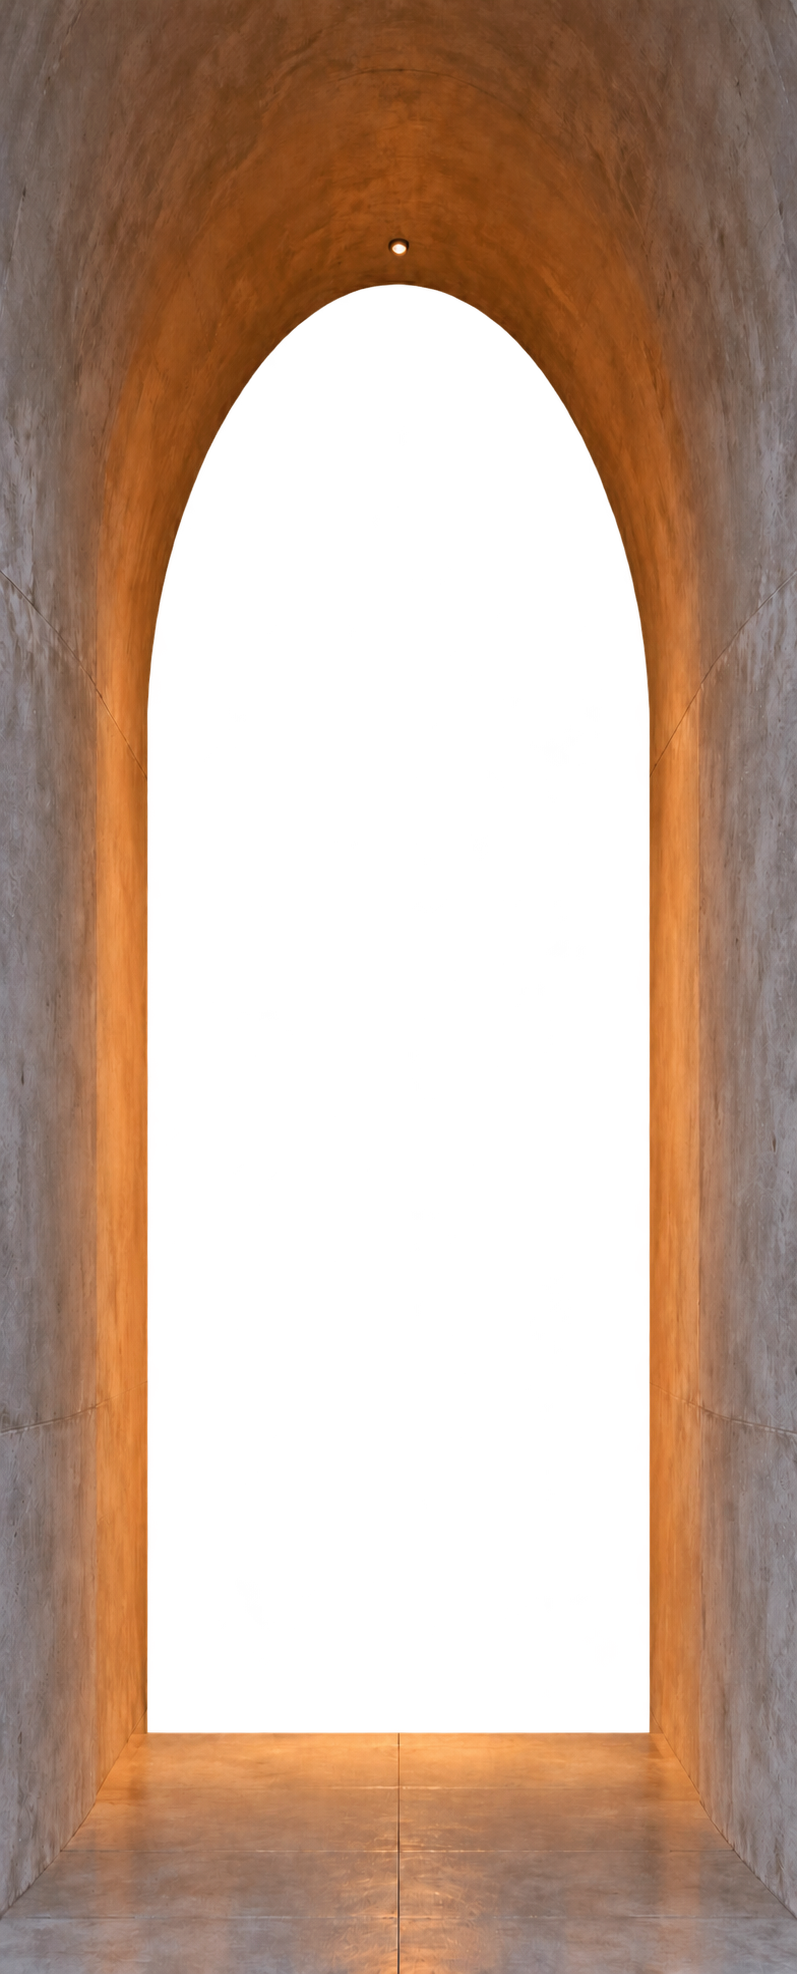
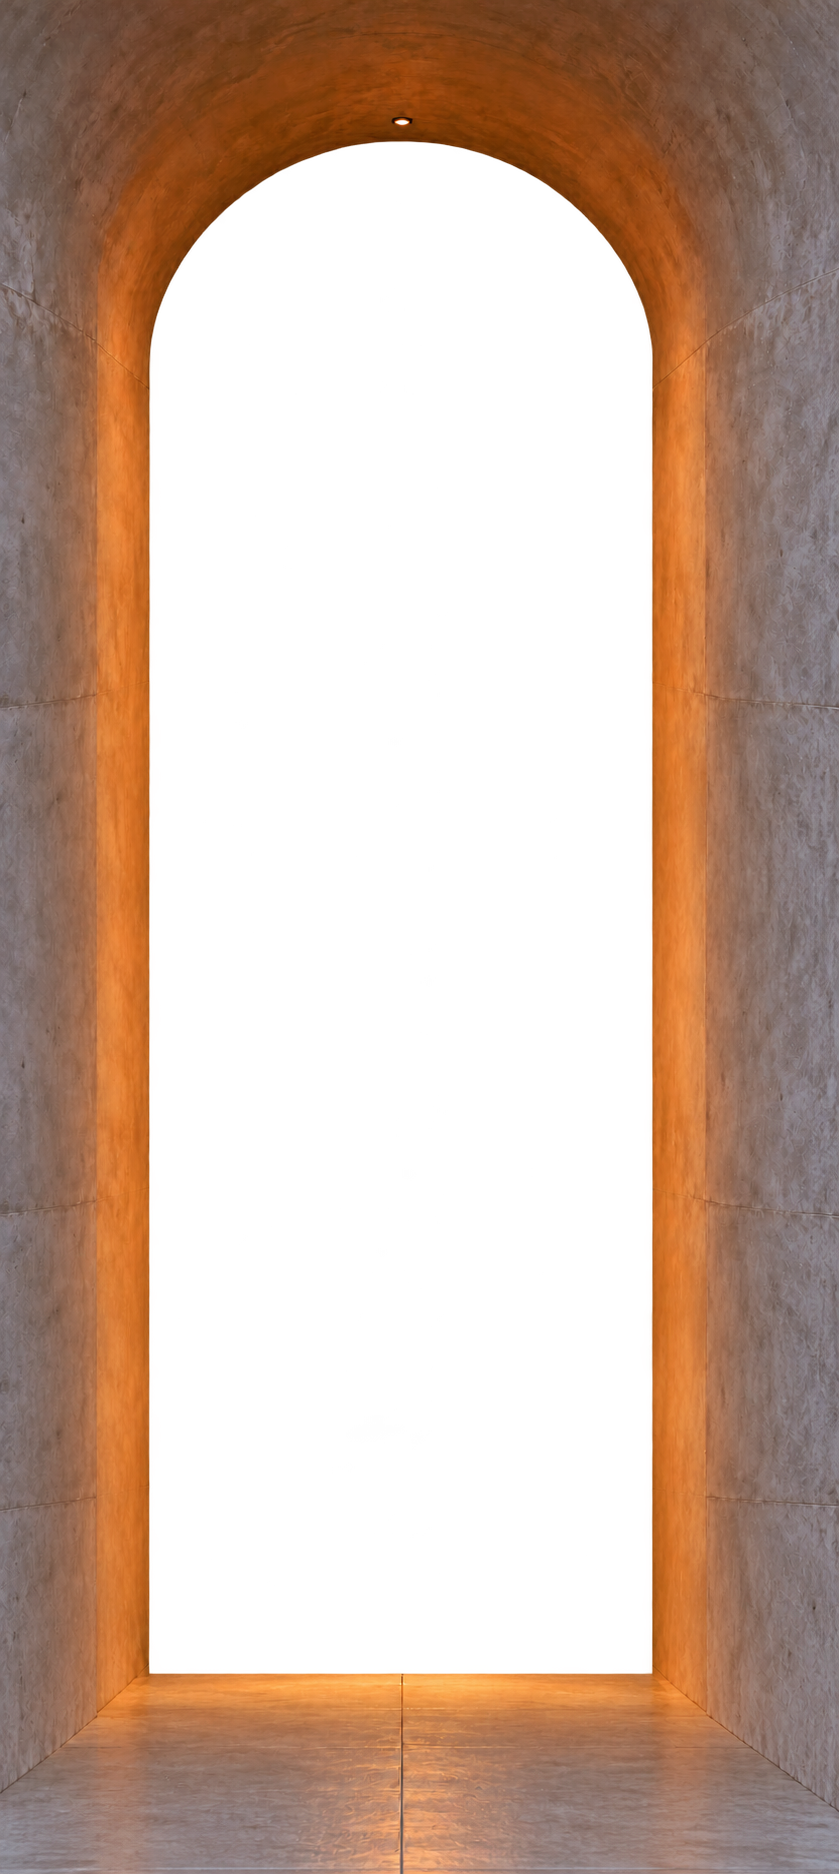
feat(top): Contact の通路を、壁を広く描いた画像に差し替える
- contact-arch-space.png を、通路の壁と窓の縁を描き直した画像（839 x 1874、窓は透過）に替える
- 前より横長なので、幅を 122% にして下端を開口部の下まで届かせ、左右を均等に切る

Claude-Session: https://claude.ai/code/session_017vAGcMKDt1vsXetiVkx2rV

diff --git a/components/top/scene.ts b/components/top/scene.ts
@@ -259,17 +259,17 @@ export const ARCHES: Arch[] = [
     /*
      * 展示を見終えて外とつながる、奥が海へ開いた通路（灯りのある天井・突き当たりのアーチ形の窓・床）。
      * 画像は窓の部分を透過してあり、そこから TOP 共通の空・海（Sky.tsx。時間帯の光を含む）がそのまま見える。
-     * 画像は開口部に近い縦長（約 1:2.5）で描いてあり、通路の左右の壁・天井の灯り・床まで開口部に収める。
-     * 開口部（約 1:2.7）より少し横長なので、幅を 110% にして下端を開口部の下まで届かせ、左右を均等に切る
+     * 画像は縦長（約 1:2.2）で描いてあり、通路の左右の壁・天井の灯り・床まで開口部に収める。
+     * 開口部（約 1:2.7）より横長なので、幅を 122% にして下端を開口部の下まで届かせ、左右を均等に切る
      * （はみ出しはアーチ形のリンク（overflow: hidden）が切り抜く）
      */
     interior: {
       kind: "image",
       src: "/images/top/contact-arch-space.png",
-      width: 797,
-      height: 1974,
+      width: 839,
+      height: 1874,
       light: "outdoor",
-      frame: { left: "-5%", top: "0%", width: "110%" },
+      frame: { left: "-11%", top: "0%", width: "122%" },
     },
   },
 ];
